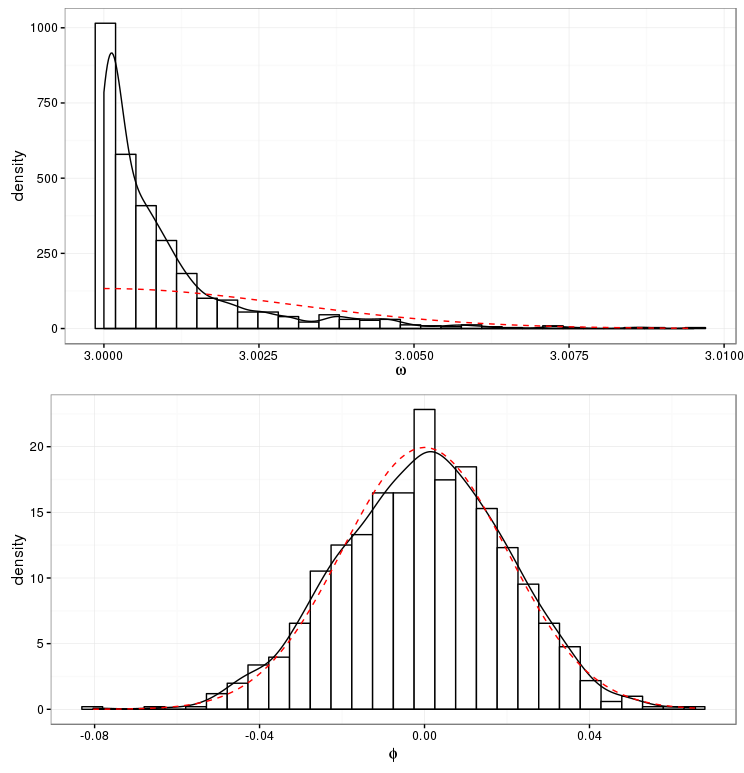
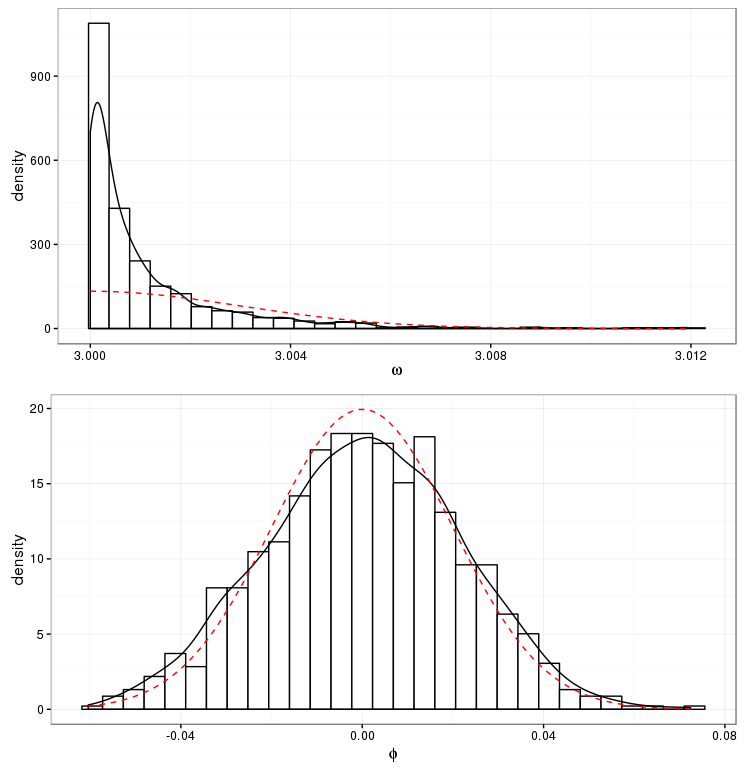
added several sections

diff --git a/Reports/Signal.tex b/Reports/Signal.tex
@@ -2,6 +2,8 @@
 
 \usepackage{repsty}
 
+\newcommand{\nb}{{n_b}}
+
 \newcommand{\uvec}[1]{\boldsymbol{\hat{#1}}}
 \newcommand{\abs}[1]{\vert#1\vert}
 \newcommand{\proj}[2]{\pi_{\uvec{#2}}\vec{#1}}
@@ -11,15 +13,16 @@
 \begin{document}
 
 \section{Projection of polarization}
+The polarization of the beam is the sum of the spins of the particles in it. We measure the projection of the polarization on the $y$-axis:
 \begin{align}
-	\vec{P} &= \sum_i \vec{s}, \notag\\
+	\vec{P} &= \sum_{i=1}^\nb \vec{s}, \notag\\
 	\proj{s}{y} &\equiv \uvec{y}\cdot\vec{s} = \abs{\vec{s}}\cos\Theta, \notag\\
-	\proj{P}{y} &= \sum_i \proj{s_i}{y} = \abs{\vec{s}}\sum_i \cos\Theta_i, \label{eq:SumSpins}\\
+	\proj{P}{y} &= \sum_i \proj{s_i}{y} = \abs{\vec{s}}\sum_i \cos\Theta_i, \label{eq:SumSpins}
+\intertext{where the particles' phases and oscillation frequencies are randomly distributed:}
 	\Theta_i &= \omega_i\cdot t + \phi_i,~ f(\phi_i),~g(\omega_i).\notag
 \end{align}
-$f$ and $g$ are distributions.
 
-The phase $\Theta_i$ is a random variable, hence $\proj{P}{y}$ is a sum of random variables; this sum is distributed normally, with expectation $\Xpct{\proj{P}{y}}[t] = \abs{\vec{s}}\cdot n_b\cdot \int_\infty\cos\theta\cdot f(\theta|t)\td\theta$.
+The phase $\Theta_i$ is a random variable, hence $\proj{P}{y}$ is a sum of random variables; this sum is distributed normally, with expectation $\Xpct{\proj{P}{y}}[t] = \abs{\vec{s}}\cdot\nb\cdot \int_\infty\cos\theta\cdot f(\theta|t)\td\theta$.
 
 \section{Simulation}
 \newcommand{\Norm}{\mathcal{N}}
@@ -27,43 +30,79 @@ The phase $\Theta_i$ is a random variable, hence $\proj{P}{y}$ is a sum of rando
 \newcommand{\ycoef}{h}
 \newcommand{\wcoef}{G}
 \newcommand{\dwcoef}{g}
-In the simulation the following model was assumed:
-\begin{align*}
-	\dy &\sim \Norm(0, \SD{\dy}), \\
-	\SD{\dy}(t) &= \SD{\dy}(0) + \ycoef\cdot t, \\
-	\omega_i &= \omega_0 + \wcoef\cdot \dy_i^2, \\
-	\phi &\sim \Norm(\phi_0, \SD{\phi}).
-\end{align*}
+\newcommand{\vp}[2]{{#1}\cdot 10^{#2} }
+In the simulation, the following model was assumed:\\
+\begin{minipage}{.5\textwidth}
+	\begin{align*}
+		\dy &\sim \Norm(0, \SD{\dy}), \\
+		\SD{\dy}(t) &= \SD{\dy}(0) + \ycoef\cdot t, \\
+		\omega_i &= \omega_0 + \wcoef\cdot \dy_i^2, \\
+		\phi &\sim \Norm(\phi_0, \SD{\phi}).
+	\end{align*}
+\end{minipage}
+\begin{minipage}{.5\textwidth}
+	\begin{tabular}{clr}
+		  Parameter   & Value            &          Dimension \\ \hline
+		$\SD{\dy}(0)$ & $\vp{1}{-3}$     &  \\
+		  $\ycoef$    & $\vp{5}{-6}$     &   $\sfrac{1}{sec}$ \\
+		 $\omega_0$   & $3$              & $\sfrac{rad}{sec}$ \\
+		  $\wcoef$    & $\vp{1}{3}$      & $\sfrac{rad}{sec}$ \\
+		  $\phi_0$    & $\sfrac{\pi}{2}$ &  \\
+		 $\SD{\phi}$  & $\vp{2}{-2}$     &              $rad$ \\ \hline
+	\end{tabular}
+\end{minipage}
 
-\subsection{Constant $\SD{\dy}$}
-When the beam particles' phase and oscillation frequency have unchanging distributions as in Figure~\ref{fig:PSdist_cDy}, the resulting polarization signal, computed according to eq.~\eqref{eq:SumSpins}, is shown in Figure~\ref{fig:Sgl_cDyPhys}.
+
+\subsection{Constant $\SD{\dy}(t=0)$}
+Given unchanging distributions of the beam particles' phase and oscillation frequency presented in Figure~\ref{fig:PSdist_cDy} (sampled once at time $=0$), the resulting polarization signal, computed according to eq.~\eqref{eq:SumSpins}, has the form shown in Figure~\ref{fig:Sgl_cDyPhys}.
 \begin{figure}[h]
-	\centering
-	\includegraphics[scale=.5]{../img/PS_dist}
-	\caption{Phase space distributions.\label{fig:PSdist_cDy}}
+	\begin{subfigure}[b]{.45\textwidth}
+		\centering
+		\includegraphics[scale=.5]{../img/PS_dist}
+		\caption{Phase space distributions.\label{fig:PSdist_cDy}}
+	\end{subfigure}~~~~~~~~
+	\begin{subfigure}[b]{.45\textwidth}
+		\centering
+		\includegraphics[scale=.5]{../img/Spec_PhysDistros}
+		\caption{Power spectral density plot.\label{fig:PSD_cDyPhys}}
+	\end{subfigure}
+	\caption{Distributions and power spectra.}
 \end{figure}
 \begin{figure}[h]
 	\centering
 	\includegraphics[scale=.6]{../img/Sgl_PhysDistros}
-	\caption{Polarization signal in the case of constant phase space distributions. The read and blue lines mark are measurements taken at the points $\frac{2\pi n - \phi_0 +\pi/2}{\omega_0}$ and $\frac{2\pi n - \phi_0 +3\pi/2}{\omega_0}$ respectively.\label{fig:Sgl_cDyPhys}}
-\end{figure}
-\begin{figure}[h]
-	\centering
-	\includegraphics[scale=.5]{../img/Peaks_after_Peaks}
-	\caption{Focus.\label{fig:Focus}}
+	\caption{Polarization signal in the case of constant phase space distributions. The black lines mark the measurements taken at the points $\sin(\omega_0\cdot t_n + \phi_0)=\pm 1$.\label{fig:Sgl_cDyPhys}}
 \end{figure}
 
-One can observe (Figure~\ref{fig:Focus}) that the read/blue lines, marking the measurements supposed to be at the peaks/valleys of the signal (null envelope), fall in front of the actual extrema after a while, which suggests that the signal's frequency is greater than that of the synchronous particle, $\omega_0$. With that in mind, we fitted the function $f(t) = n_b\cdot\exp\bkt{\lambda t}\cdot\sin\bkt{(\omega+\dwcoef\cdot t)\cdot t + \phi_0}$ to the simulated data.
+One can observe (the detailization in Figure~\ref{fig:Sgl_cDyPhys}) that the black lines, marking the measurements supposed to be at the peaks/valleys of the signal (the null envelope), fall in front of the actual extrema after a while, which suggests that the signal's oscillation frequency is greater than that of the synchronous particle, $\omega_0$. With that in mind, we fitted the function $f(t) = n_b\cdot\exp\bkt{\lambda t}\cdot\sin\bkt{(\omega+\dwcoef\cdot t)\cdot t + \phi_0}$ to the simulated data.
 
-The model fit yielded an $\hat{\omega} \approx 3.001 \pm 1.493\cdot10^{-6}$, and a life-time $\hat{\tau}\approx 2500$ sec. The frequency growth factor, $g$, is estimated $\dwcoef < 0$, indicating a \emph{decreasing} oscillation frequency. The estimate of $g$ is statistically significant, with the t-value $\approx 290$; we note, however, that the used model is drastically misspecified,~\footnote{The first derivative of the signal's envelope falls much slower at the beginning.} which might be the cause of the contradiction between the frequency's supposed deceleration, and the evidence of the computed envelope points. 
+The model fit yielded an $\hat{\omega} \approx 3.001 \pm 1.535\cdot10^{-6}$, and a life-time $\hat{\tau}\approx 2600$ sec. The frequency growth factor, $g$, is estimated $\dwcoef < 0$, indicating a \emph{decreasing} oscillation frequency. The estimate of $g$ is statistically significant, with the t-value $\approx -270$; we note, however, that the used model is drastically misspecified,~\footnote{The first derivative of the signal's envelope falls much slower at the beginning.} which might be the cause of the contradiction between the supposed deceleration of oscillation, and the evidence of the computed envelope points. 
 
 The signal's power spectrum (Figure~\ref{fig:PSD_cDyPhys}) mimics the particles' $\omega$ density distribution.
+
+\subsection{Growing $\SD{\dy}(t)$}
+In this simulation, we resampled the $(\omega,\phi)$ phase space at each measurement time. The effect of the growth of $\SD{\dy}$ can be observed not only in that the signal decays much more rapidly ($\hat{\tau}\approx 454$ sec), but also in the increase of $\Xpct{\hat{\omega}}$ from $3.001$ to $3.002$, caused by the appearance of a greater number of particles with higher frequencies.
 \begin{figure}[h]
 	\centering
-	\includegraphics[scale=.5]{../img/Spec_PhysDistros}
-	\caption{Power spectral density plot.\label{fig:PSD_cDyPhys}}
+	\includegraphics[scale=.6]{../img/Signal_Growing_Dgamma}
+	\caption{Decoherence when $\SD{\dy}$ grows with time.}
 \end{figure}
 
+\subsection{Normally distributed $\omega$}
+In this case (Figure~\ref{fig:Sgl_cDyNorm}) the shift in the signal peaks from the null envelope is unnoticeable (as further evidenced by the non-convergence of the model with a frequency growth factor). Any systematic deviation of $\Xpct{\hat{\omega}}$ is due to the asymmetry of the $\omega$ distribution, and therefore decreases with the number of particles used in modeling.
+\begin{figure}[h]
+	\begin{subfigure}{.5\textwidth}
+		\centering
+		\includegraphics[scale=.5]{../img/PS_dist_Norm}
+		\caption{Phase space distributions.}
+	\end{subfigure}~
+	\begin{subfigure}{.5\textwidth}
+		\centering
+		\includegraphics[scale=.5]{../img/Sgl_NormDistros}
+		\caption{Signal in the case of a normally distributed oscillation frequency.}
+	\end{subfigure}
+	\caption{Normally distributed phase space variables.\label{fig:Sgl_cDyNorm}}
+\end{figure}
 
 
 \end{document}
